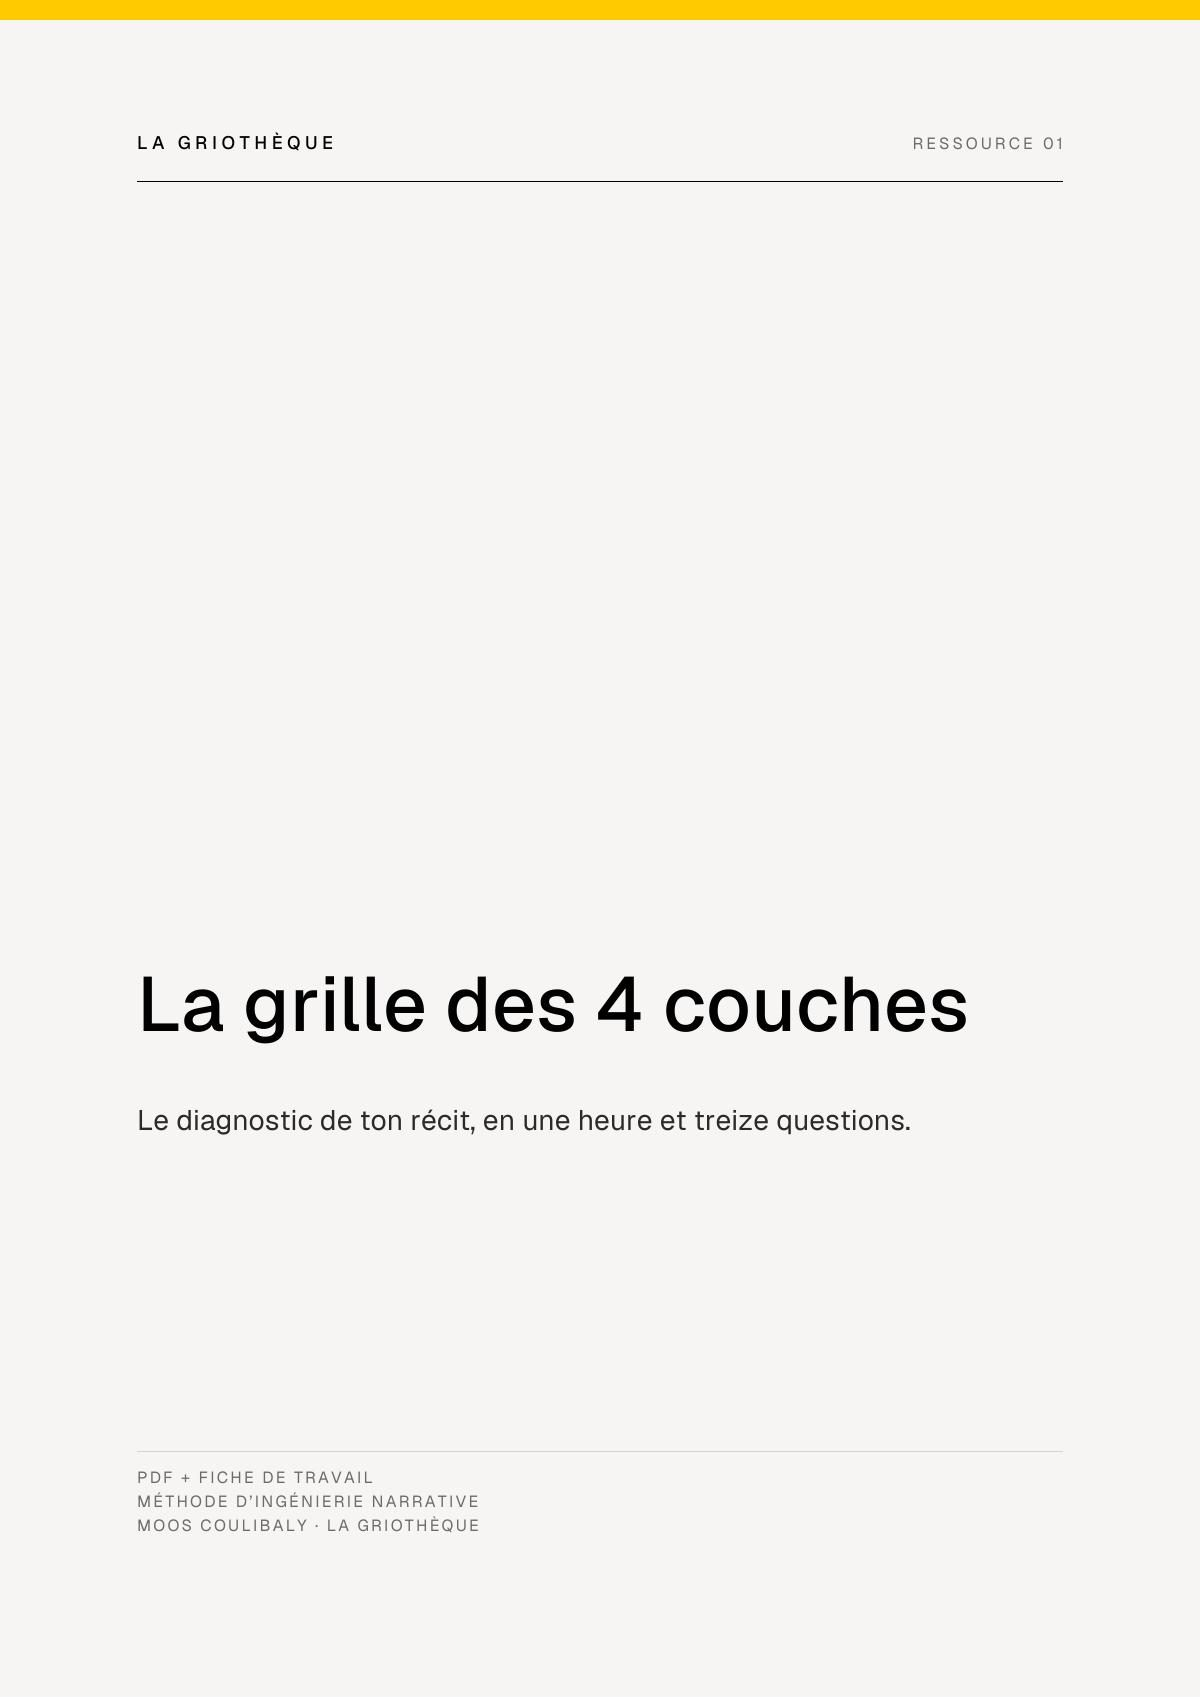
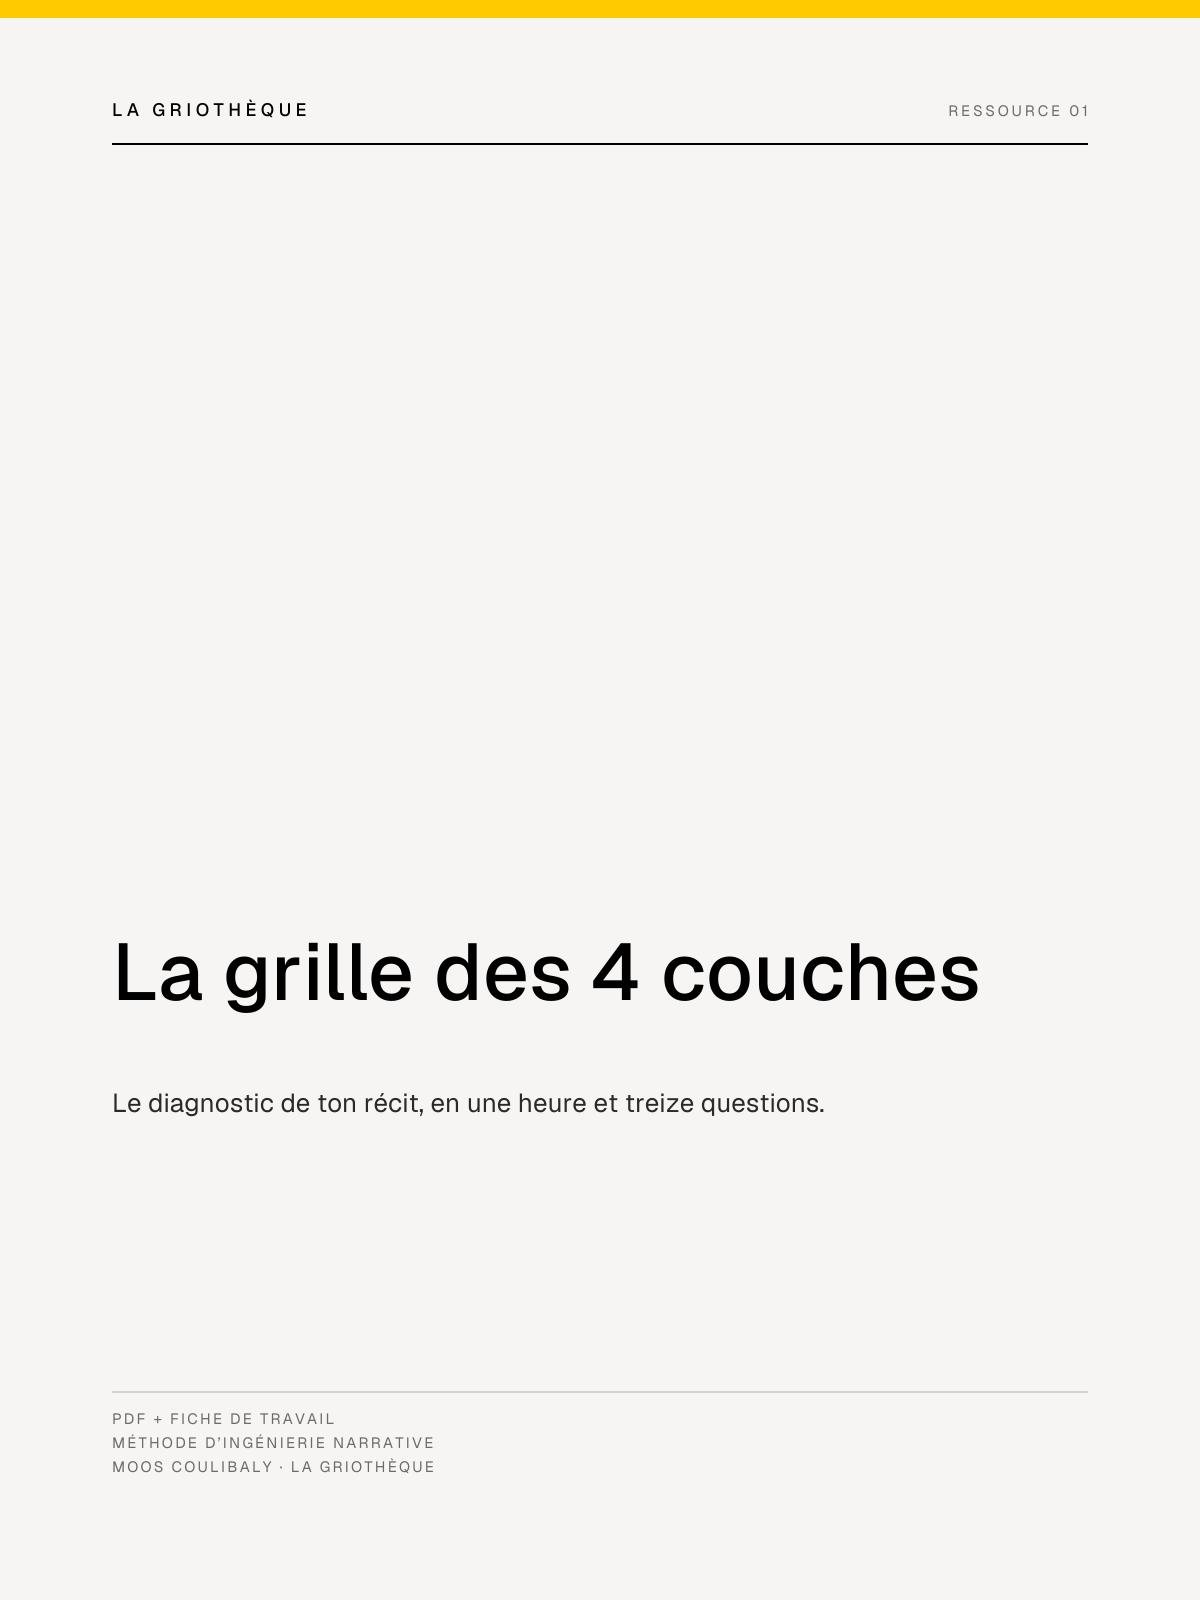
Couvertures ressources recomposees en 3:4 (le cadre du site rognait le bandeau jaune)
Claude-Session: https://claude.ai/code/session_01MbCUbJq8SEvV2msDhgCSdW

diff --git a/apps/lagriotheque/index.html b/apps/lagriotheque/index.html
@@ -24,7 +24,7 @@
     <link rel="icon" type="image/png" sizes="16x16" href="img/favicon-16.png?v=1" />
     <link rel="apple-touch-icon" sizes="180x180" href="img/apple-touch-icon.png?v=1" />
     <meta name="theme-color" content="#f6f5f3" />
-    <link rel="stylesheet" href="styles.css?v=1786009598" />
+    <link rel="stylesheet" href="styles.css?v=1786009874" />
     <script type="application/ld+json">
     {"@context":"https://schema.org","@type":"EducationalOrganization","name":"LA GRIOTHÈQUE","url":"https://lagriotheque.com","image":"https://lagriotheque.com/img/og-lagriotheque.jpg","description":"École qui transmet aux créatifs les outils pour bâtir leur récit et vivre de leur passion. Organisme de formation certifié Qualiopi.","sameAs":["https://www.instagram.com/lagrioteque"],"parentOrganization":{"@type":"Organization","name":"LES GRIOTS","url":"https://lesgriots.com"}}
     </script>
@@ -47,8 +47,8 @@
     <!-- Stripe.js v3 — pour la page de checkout custom (Stripe Elements) -->
     <script src="https://js.stripe.com/v3/" crossorigin="anonymous"></script>
 
-    <script type="text/babel" data-presets="env,react" src="data.jsx?v=1786009598"></script>
+    <script type="text/babel" data-presets="env,react" src="data.jsx?v=1786009874"></script>
     <script type="text/babel" data-presets="env,react" src="matrix-griot.jsx?v=1784233604"></script>
-    <script type="text/babel" data-presets="env,react" src="app.jsx?v=1786009598"></script>
+    <script type="text/babel" data-presets="env,react" src="app.jsx?v=1786009874"></script>
   </body>
 </html>
